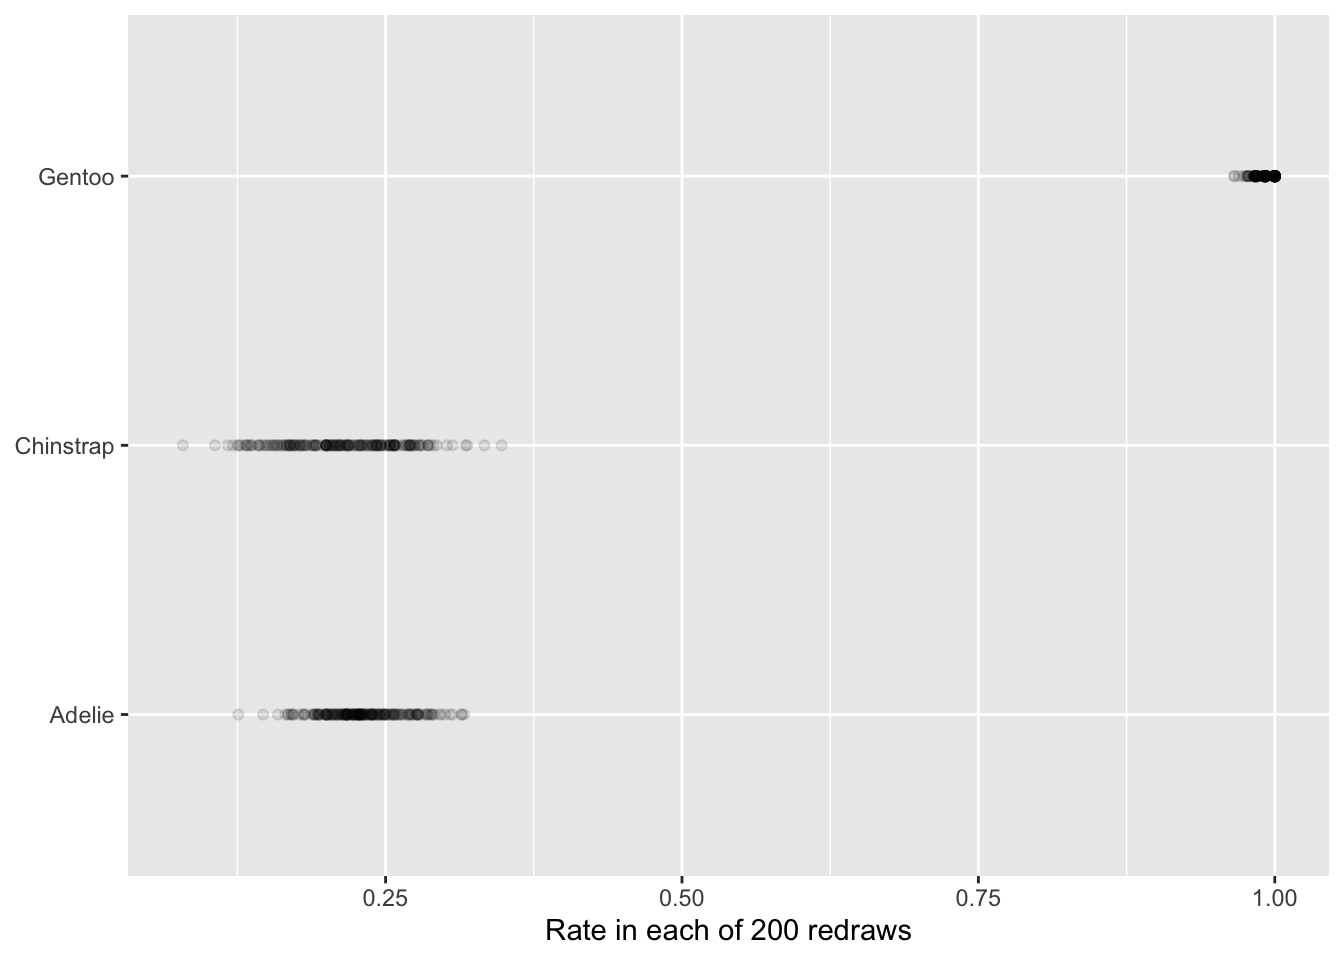
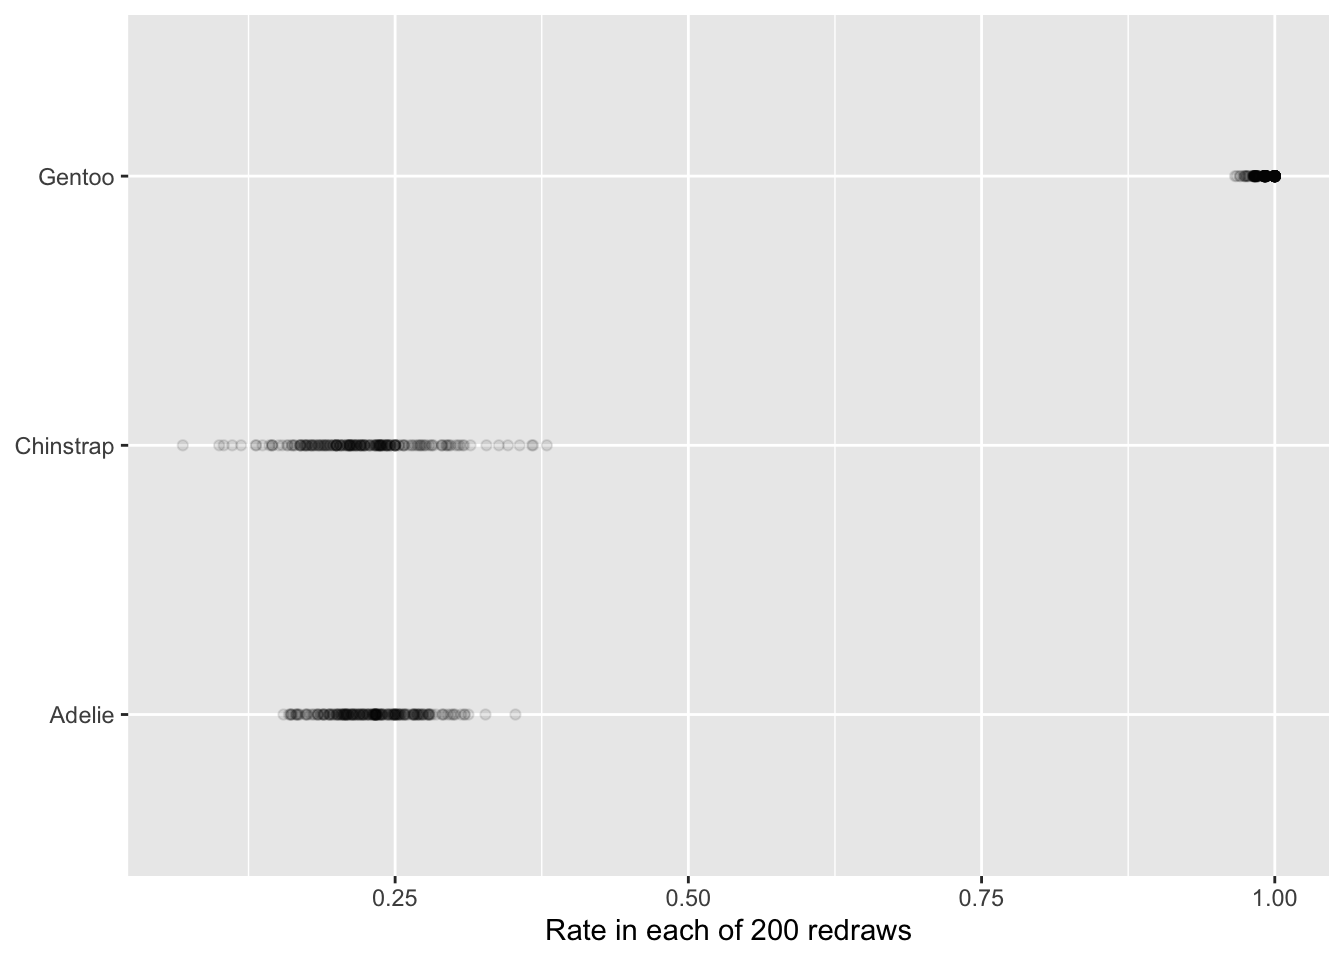
Add figure alt text to Module 11-12 practice pages; seed D2+ resampling
Add a one-sentence fig-alt to every plot on both practice pages. Add
set.seed(3901) to Module 12's D2+ so its redraws repeat, and regenerate
the two download files, dropping the solutions header line that said
D2+ differs on each run.

diff --git a/docs/module-12/practice.html b/docs/module-12/practice.html
@@ -279,7 +279,7 @@ pre > code.sourceCode > span > a:first-child::before { text-decoration: underlin
 <div class="cell-output-display">
 <div>
 <figure class="figure">
-<p><img src="practice_files/figure-html/unnamed-chunk-2-1.png" class="img-fluid figure-img" width="672"></p>
+<p><img src="practice_files/figure-html/unnamed-chunk-2-1.png" class="img-fluid figure-img" alt="Sideways stacked bar chart of the share of Adelie penguins on each island, with every bar running from 0 to 1, where Torgersen is 100% Adelie, Dream about 45% and Biscoe about 26%." width="672"></p>
 </figure>
 </div>
 </div>
@@ -300,10 +300,10 @@ pre > code.sourceCode > span > a:first-child::before { text-decoration: underlin
 <div class="cell quarto-layout-panel" data-layout-ncol="2">
 <div class="quarto-layout-row">
 <div class="quarto-layout-cell" style="flex-basis: 50.0%;justify-content: center;">
-<p><img src="practice_files/figure-html/unnamed-chunk-3-1.png" class="img-fluid" width="672"></p>
+<p><img src="practice_files/figure-html/unnamed-chunk-3-1.png" class="img-fluid" alt="Histogram of percent below poverty counted in Midwest counties, peaking at about 80 counties near 10% with a long right tail and one lone county near 48%." width="672"></p>
 </div>
 <div class="quarto-layout-cell" style="flex-basis: 50.0%;justify-content: center;">
-<p><img src="practice_files/figure-html/unnamed-chunk-3-2.png" class="img-fluid" width="672"></p>
+<p><img src="practice_files/figure-html/unnamed-chunk-3-2.png" class="img-fluid" alt="Histogram of the same poverty percentages weighted by population so the y axis counts people, where the peak moves to nearly 11 million people near 14%, a second bump appears near 6%, and the tail above about 22% almost disappears." width="672"></p>
 </div>
 </div>
 </div>
@@ -370,7 +370,7 @@ pre > code.sourceCode > span > a:first-child::before { text-decoration: underlin
 <div class="cell-output-display">
 <div>
 <figure class="figure">
-<p><img src="practice_files/figure-html/unnamed-chunk-5-1.png" class="img-fluid figure-img" width="672"></p>
+<p><img src="practice_files/figure-html/unnamed-chunk-5-1.png" class="img-fluid figure-img" alt="Point-range chart of the share of penguins heavier than 4000 g by species with n labels, where Adelie (about 0.23, n = 151) and Chinstrap (about 0.22, n = 68) have visible ranges, Chinstrap's the widest, while Gentoo (about 0.99, n = 123) has almost no range." width="672"></p>
 </figure>
 </div>
 </div>
@@ -423,22 +423,24 @@ pre > code.sourceCode > span > a:first-child::before { text-decoration: underlin
 <h3 class="anchored" data-anchor-id="d2-optional-see-the-noise-resampling">D2+ · Optional: see the noise (resampling)</h3>
 <p>Redraw the penguins with replacement 200 times and compute each species’ rate again. The width of each cloud is the uncertainty the se describes. (<code>map()</code> and <code>slice_sample()</code> are new; read and run, no need to write them.)</p>
 <div class="cell">
-<div class="code-copy-outer-scaffold"><div class="sourceCode cell-code" id="cb11"><pre class="sourceCode r code-with-copy"><code class="sourceCode r"><span id="cb11-1"><a href="#cb11-1" aria-hidden="true" tabindex="-1"></a>resamples <span class="ot">&lt;-</span> <span class="fu">map</span>(<span class="dv">1</span><span class="sc">:</span><span class="dv">200</span>, \(i) {</span>
-<span id="cb11-2"><a href="#cb11-2" aria-hidden="true" tabindex="-1"></a>  penguins <span class="sc">%&gt;%</span></span>
-<span id="cb11-3"><a href="#cb11-3" aria-hidden="true" tabindex="-1"></a>    <span class="fu">drop_na</span>(body_mass_g) <span class="sc">%&gt;%</span></span>
-<span id="cb11-4"><a href="#cb11-4" aria-hidden="true" tabindex="-1"></a>    <span class="fu">slice_sample</span>(<span class="at">prop =</span> <span class="dv">1</span>, <span class="at">replace =</span> <span class="cn">TRUE</span>) <span class="sc">%&gt;%</span></span>
-<span id="cb11-5"><a href="#cb11-5" aria-hidden="true" tabindex="-1"></a>    <span class="fu">group_by</span>(species) <span class="sc">%&gt;%</span></span>
-<span id="cb11-6"><a href="#cb11-6" aria-hidden="true" tabindex="-1"></a>    <span class="fu">summarize</span>(<span class="at">rate =</span> <span class="fu">mean</span>(body_mass_g <span class="sc">&gt;</span> <span class="dv">4000</span>))</span>
-<span id="cb11-7"><a href="#cb11-7" aria-hidden="true" tabindex="-1"></a>}) <span class="sc">%&gt;%</span></span>
-<span id="cb11-8"><a href="#cb11-8" aria-hidden="true" tabindex="-1"></a>  <span class="fu">bind_rows</span>(<span class="at">.id =</span> <span class="st">"draw"</span>)</span>
-<span id="cb11-9"><a href="#cb11-9" aria-hidden="true" tabindex="-1"></a></span>
-<span id="cb11-10"><a href="#cb11-10" aria-hidden="true" tabindex="-1"></a><span class="fu">ggplot</span>(resamples, <span class="fu">aes</span>(<span class="at">x =</span> rate, <span class="at">y =</span> species)) <span class="sc">+</span></span>
-<span id="cb11-11"><a href="#cb11-11" aria-hidden="true" tabindex="-1"></a>  <span class="fu">geom_point</span>(<span class="at">alpha =</span> <span class="fl">0.1</span>) <span class="sc">+</span></span>
-<span id="cb11-12"><a href="#cb11-12" aria-hidden="true" tabindex="-1"></a>  <span class="fu">labs</span>(<span class="at">x =</span> <span class="st">"Rate in each of 200 redraws"</span>, <span class="at">y =</span> <span class="cn">NULL</span>)</span></code></pre></div><button title="Copy to Clipboard" class="code-copy-button"><i class="bi"></i></button></div>
+<div class="code-copy-outer-scaffold"><div class="sourceCode cell-code" id="cb11"><pre class="sourceCode r code-with-copy"><code class="sourceCode r"><span id="cb11-1"><a href="#cb11-1" aria-hidden="true" tabindex="-1"></a><span class="co"># same redraws every time you run it</span></span>
+<span id="cb11-2"><a href="#cb11-2" aria-hidden="true" tabindex="-1"></a><span class="fu">set.seed</span>(<span class="dv">3901</span>)</span>
+<span id="cb11-3"><a href="#cb11-3" aria-hidden="true" tabindex="-1"></a>resamples <span class="ot">&lt;-</span> <span class="fu">map</span>(<span class="dv">1</span><span class="sc">:</span><span class="dv">200</span>, \(i) {</span>
+<span id="cb11-4"><a href="#cb11-4" aria-hidden="true" tabindex="-1"></a>  penguins <span class="sc">%&gt;%</span></span>
+<span id="cb11-5"><a href="#cb11-5" aria-hidden="true" tabindex="-1"></a>    <span class="fu">drop_na</span>(body_mass_g) <span class="sc">%&gt;%</span></span>
+<span id="cb11-6"><a href="#cb11-6" aria-hidden="true" tabindex="-1"></a>    <span class="fu">slice_sample</span>(<span class="at">prop =</span> <span class="dv">1</span>, <span class="at">replace =</span> <span class="cn">TRUE</span>) <span class="sc">%&gt;%</span></span>
+<span id="cb11-7"><a href="#cb11-7" aria-hidden="true" tabindex="-1"></a>    <span class="fu">group_by</span>(species) <span class="sc">%&gt;%</span></span>
+<span id="cb11-8"><a href="#cb11-8" aria-hidden="true" tabindex="-1"></a>    <span class="fu">summarize</span>(<span class="at">rate =</span> <span class="fu">mean</span>(body_mass_g <span class="sc">&gt;</span> <span class="dv">4000</span>))</span>
+<span id="cb11-9"><a href="#cb11-9" aria-hidden="true" tabindex="-1"></a>}) <span class="sc">%&gt;%</span></span>
+<span id="cb11-10"><a href="#cb11-10" aria-hidden="true" tabindex="-1"></a>  <span class="fu">bind_rows</span>(<span class="at">.id =</span> <span class="st">"draw"</span>)</span>
+<span id="cb11-11"><a href="#cb11-11" aria-hidden="true" tabindex="-1"></a></span>
+<span id="cb11-12"><a href="#cb11-12" aria-hidden="true" tabindex="-1"></a><span class="fu">ggplot</span>(resamples, <span class="fu">aes</span>(<span class="at">x =</span> rate, <span class="at">y =</span> species)) <span class="sc">+</span></span>
+<span id="cb11-13"><a href="#cb11-13" aria-hidden="true" tabindex="-1"></a>  <span class="fu">geom_point</span>(<span class="at">alpha =</span> <span class="fl">0.1</span>) <span class="sc">+</span></span>
+<span id="cb11-14"><a href="#cb11-14" aria-hidden="true" tabindex="-1"></a>  <span class="fu">labs</span>(<span class="at">x =</span> <span class="st">"Rate in each of 200 redraws"</span>, <span class="at">y =</span> <span class="cn">NULL</span>)</span></code></pre></div><button title="Copy to Clipboard" class="code-copy-button"><i class="bi"></i></button></div>
 <div class="cell-output-display">
 <div>
 <figure class="figure">
-<p><img src="practice_files/figure-html/unnamed-chunk-7-1.png" class="img-fluid figure-img" width="672"></p>
+<p><img src="practice_files/figure-html/unnamed-chunk-7-1.png" class="img-fluid figure-img" alt="Dot plot of each species' rate of penguins heavier than 4000 g across 200 redraws of the data, where the Chinstrap cloud is widest (about 0.07 to 0.38), the Adelie cloud is narrower (about 0.16 to 0.35), their centers sit near 0.22 and 0.23, and the Gentoo cloud is packed tightly close to 1." width="672"></p>
 </figure>
 </div>
 </div>
@@ -478,10 +480,10 @@ pre > code.sourceCode > span > a:first-child::before { text-decoration: underlin
 <div class="cell quarto-layout-panel" data-layout-ncol="2">
 <div class="quarto-layout-row">
 <div class="quarto-layout-cell" style="flex-basis: 50.0%;justify-content: center;">
-<p><img src="practice_files/figure-html/unnamed-chunk-9-1.png" class="img-fluid" width="672"></p>
+<p><img src="practice_files/figure-html/unnamed-chunk-9-1.png" class="img-fluid" alt="Bar chart of penguin counts per island zoomed to an x axis from 40 to 175, where all three bars remain but are cut off at 40, so Biscoe (168) looks about 10.7 times as long as Torgersen (52) although the counts differ only 3.2 times." width="672"></p>
 </div>
 <div class="quarto-layout-cell" style="flex-basis: 50.0%;justify-content: center;">
-<p><img src="practice_files/figure-html/unnamed-chunk-9-2.png" class="img-fluid" width="672"></p>
+<p><img src="practice_files/figure-html/unnamed-chunk-9-2.png" class="img-fluid" alt="Empty bar chart of penguin counts per island with x-axis limits of 40 to 175, where no bars appear at all because every bar starts at 0, outside the limits." width="672"></p>
 </div>
 </div>
 </div>
@@ -511,10 +513,10 @@ pre > code.sourceCode > span > a:first-child::before { text-decoration: underlin
 <div class="cell quarto-layout-panel" data-layout-ncol="2">
 <div class="quarto-layout-row">
 <div class="quarto-layout-cell" style="flex-basis: 50.0%;justify-content: center;">
-<p><img src="practice_files/figure-html/unnamed-chunk-11-1.png" class="img-fluid" width="672"></p>
+<p><img src="practice_files/figure-html/unnamed-chunk-11-1.png" class="img-fluid" alt="Line chart of unemployed per person from 2000 to 2007, where a narrow axis makes a steep rise from about 0.02 to a peak near 0.032 in 2003, and a fall to about 0.024 by 2007, look dramatic." width="672"></p>
 </div>
 <div class="quarto-layout-cell" style="flex-basis: 50.0%;justify-content: center;">
-<p><img src="practice_files/figure-html/unnamed-chunk-11-2.png" class="img-fluid" width="672"></p>
+<p><img src="practice_files/figure-html/unnamed-chunk-11-2.png" class="img-fluid" alt="Line chart of unemployed per person from 1967 to 2015, where peaks near 0.052 around 1982 and 0.05 around 2010 make the 2003 bump of about 0.032 look modest." width="672"></p>
 </div>
 </div>
 </div>
@@ -583,7 +585,7 @@ pre > code.sourceCode > span > a:first-child::before { text-decoration: underlin
 <div class="cell-output-display">
 <div>
 <figure class="figure">
-<p><img src="practice_files/figure-html/unnamed-chunk-13-1.png" class="img-fluid figure-img" width="672"></p>
+<p><img src="practice_files/figure-html/unnamed-chunk-13-1.png" class="img-fluid figure-img" alt="Sideways bar chart of each island's share of all Adelie penguins, where Dream is largest at about 37%, Torgersen is next at 34% and Biscoe is smallest at 29%." width="672"></p>
 </figure>
 </div>
 </div>
@@ -602,10 +604,10 @@ pre > code.sourceCode > span > a:first-child::before { text-decoration: underlin
 <div class="cell quarto-layout-panel" data-layout-ncol="2">
 <div class="quarto-layout-row">
 <div class="quarto-layout-cell" style="flex-basis: 50.0%;justify-content: center;">
-<p><img src="practice_files/figure-html/unnamed-chunk-14-1.png" class="img-fluid" width="672"></p>
+<p><img src="practice_files/figure-html/unnamed-chunk-14-1.png" class="img-fluid" alt="Single stacked bar of each species' share of all penguins on a scale from 0 to 1, with Adelie about 44%, Gentoo 36% and Chinstrap 20%, so the shares can be compared as lengths." width="672"></p>
 </div>
 <div class="quarto-layout-cell" style="flex-basis: 50.0%;justify-content: center;">
-<p><img src="practice_files/figure-html/unnamed-chunk-14-2.png" class="img-fluid" width="672"></p>
+<p><img src="practice_files/figure-html/unnamed-chunk-14-2.png" class="img-fluid" alt="Pie chart of the same species shares, with Adelie about 44%, Gentoo 36% and Chinstrap 20%, so the shares must be compared as angles and areas." width="672"></p>
 </div>
 </div>
 </div>

diff --git a/docs/module-11/practice.html b/docs/module-11/practice.html
@@ -319,7 +319,7 @@ pre > code.sourceCode > span > a:first-child::before { text-decoration: underlin
 <div class="cell-output-display">
 <div>
 <figure class="figure">
-<p><img src="practice_files/figure-html/d1-run-1.png" class="img-fluid figure-img" width="672"></p>
+<p><img src="practice_files/figure-html/d1-run-1.png" class="img-fluid figure-img" alt="Scatter plot of bill depth against bill length with all penguins in one color, where the whole cloud slopes slightly downward, so longer bills look shallower." width="672"></p>
 </figure>
 </div>
 </div>
@@ -333,7 +333,7 @@ pre > code.sourceCode > span > a:first-child::before { text-decoration: underlin
 <div class="cell-output-display">
 <div>
 <figure class="figure">
-<p><img src="practice_files/figure-html/d1-run-2.png" class="img-fluid figure-img" width="672"></p>
+<p><img src="practice_files/figure-html/d1-run-2.png" class="img-fluid figure-img" alt="Scatter plot of bill depth against bill length with species shown by color and shape, where Adelie, Chinstrap and Gentoo form three separate clusters and the points slope upward within each species." width="672"></p>
 </figure>
 </div>
 </div>
@@ -398,7 +398,7 @@ pre > code.sourceCode > span > a:first-child::before { text-decoration: underlin
 <div class="cell-output-display">
 <div>
 <figure class="figure">
-<p><img src="practice_files/figure-html/d1-modify-1.png" class="img-fluid figure-img" width="672"></p>
+<p><img src="practice_files/figure-html/d1-modify-1.png" class="img-fluid figure-img" alt="Scatter plot of bill depth against bill length with semi-transparent points and two legends, color for species and shape for island, where all Gentoo are on Biscoe, all Chinstrap are on Dream and Adelie appear on all three islands." width="672"></p>
 </figure>
 </div>
 </div>
@@ -437,7 +437,7 @@ pre > code.sourceCode > span > a:first-child::before { text-decoration: underlin
 <div class="cell-output-display">
 <div>
 <figure class="figure">
-<p><img src="practice_files/figure-html/d1-make-1.png" class="img-fluid figure-img" width="672"></p>
+<p><img src="practice_files/figure-html/d1-make-1.png" class="img-fluid figure-img" alt="Scatter plot of body mass against flipper length colored by sex, where mass rises with flipper length, males tend to sit above and to the right of females, and a few gray points mark penguins with no recorded sex." width="672"></p>
 </figure>
 </div>
 </div>
@@ -451,7 +451,7 @@ pre > code.sourceCode > span > a:first-child::before { text-decoration: underlin
 <div class="cell-output-display">
 <div>
 <figure class="figure">
-<p><img src="practice_files/figure-html/d1-make-2.png" class="img-fluid figure-img" width="672"></p>
+<p><img src="practice_files/figure-html/d1-make-2.png" class="img-fluid figure-img" alt="Scatter plot of bill depth against body mass with semi-transparent points colored by island, where a heavy, shallow-billed group of Biscoe penguins sits at lower right, apart from a lighter, deeper-billed mix of all three islands at upper left." width="672"></p>
 </figure>
 </div>
 </div>
@@ -516,7 +516,7 @@ pre > code.sourceCode > span > a:first-child::before { text-decoration: underlin
 <div class="cell-output-display">
 <div>
 <figure class="figure">
-<p><img src="practice_files/figure-html/d2-run-1.png" class="img-fluid figure-img" width="672"></p>
+<p><img src="practice_files/figure-html/d2-run-1.png" class="img-fluid figure-img" alt="Column chart of penguin counts per island, with Biscoe tallest at 168, Dream at 124 and Torgersen shortest at 52." width="672"></p>
 </figure>
 </div>
 </div>
@@ -577,7 +577,7 @@ pre > code.sourceCode > span > a:first-child::before { text-decoration: underlin
 <div class="cell-output-display">
 <div>
 <figure class="figure">
-<p><img src="practice_files/figure-html/d2-modify-1.png" class="img-fluid figure-img" width="672"></p>
+<p><img src="practice_files/figure-html/d2-modify-1.png" class="img-fluid figure-img" alt="Column chart of penguins measured per year, rising slightly from 110 in 2007 to 114 in 2008 and 120 in 2009." width="672"></p>
 </figure>
 </div>
 </div>
@@ -611,7 +611,7 @@ pre > code.sourceCode > span > a:first-child::before { text-decoration: underlin
 <div class="cell-output-display">
 <div>
 <figure class="figure">
-<p><img src="practice_files/figure-html/d2-make-1.png" class="img-fluid figure-img" width="672"></p>
+<p><img src="practice_files/figure-html/d2-make-1.png" class="img-fluid figure-img" alt="Column chart of penguin counts by sex, with nearly equal female (165) and male (168) columns and a short NA column (11) for penguins whose sex was not recorded." width="672"></p>
 </figure>
 </div>
 </div>
@@ -623,7 +623,7 @@ pre > code.sourceCode > span > a:first-child::before { text-decoration: underlin
 <div class="cell-output-display">
 <div>
 <figure class="figure">
-<p><img src="practice_files/figure-html/d2-make-2.png" class="img-fluid figure-img" width="672"></p>
+<p><img src="practice_files/figure-html/d2-make-2.png" class="img-fluid figure-img" alt="Column chart of mean body mass per species, with Gentoo tallest at about 5,080 g and Adelie and Chinstrap nearly equal at about 3,700 g." width="672"></p>
 </figure>
 </div>
 </div>
@@ -696,7 +696,7 @@ pre > code.sourceCode > span > a:first-child::before { text-decoration: underlin
 <div class="cell-output-display">
 <div>
 <figure class="figure">
-<p><img src="practice_files/figure-html/d3-run-1.png" class="img-fluid figure-img" width="672"></p>
+<p><img src="practice_files/figure-html/d3-run-1.png" class="img-fluid figure-img" alt="Line chart of mean body mass by year drawn as a single zigzag line, which jumps between about 3,700 g and 5,100 g at each of 2007, 2008 and 2009 because the three species are not separated." width="672"></p>
 </figure>
 </div>
 </div>
@@ -714,7 +714,7 @@ pre > code.sourceCode > span > a:first-child::before { text-decoration: underlin
 <div class="cell-output-display">
 <div>
 <figure class="figure">
-<p><img src="practice_files/figure-html/d3-investigate-1.png" class="img-fluid figure-img" width="672"></p>
+<p><img src="practice_files/figure-html/d3-investigate-1.png" class="img-fluid figure-img" alt="Line chart of place against step drawn with geom_line, where the line runs left to right through (1, 10), (2, 15) and (3, 30) in order of x." width="672"></p>
 </figure>
 </div>
 </div>
@@ -722,7 +722,7 @@ pre > code.sourceCode > span > a:first-child::before { text-decoration: underlin
 <div class="cell-output-display">
 <div>
 <figure class="figure">
-<p><img src="practice_files/figure-html/d3-investigate-2.png" class="img-fluid figure-img" width="672"></p>
+<p><img src="practice_files/figure-html/d3-investigate-2.png" class="img-fluid figure-img" alt="Line chart of the same points drawn with geom_path, where the line follows the row order from (1, 10) to (3, 30) and then doubles back to (2, 15)." width="672"></p>
 </figure>
 </div>
 </div>
@@ -776,7 +776,7 @@ pre > code.sourceCode > span > a:first-child::before { text-decoration: underlin
 <div class="cell-output-display">
 <div>
 <figure class="figure">
-<p><img src="practice_files/figure-html/d3-modify-1.png" class="img-fluid figure-img" width="672"></p>
+<p><img src="practice_files/figure-html/d3-modify-1.png" class="img-fluid figure-img" alt="Line chart of mean body mass by year with one colored line per species, where all three stay nearly flat, Gentoo far above at about 5,000 to 5,150 g and Adelie and Chinstrap close together near 3,700 g." width="672"></p>
 </figure>
 </div>
 </div>
@@ -814,7 +814,7 @@ pre > code.sourceCode > span > a:first-child::before { text-decoration: underlin
 <div class="cell-output-display">
 <div>
 <figure class="figure">
-<p><img src="practice_files/figure-html/d3-make-1.png" class="img-fluid figure-img" width="672"></p>
+<p><img src="practice_files/figure-html/d3-make-1.png" class="img-fluid figure-img" alt="Line chart of mean flipper length by year with one colored line per island, where Biscoe stays highest at about 208 to 211 mm, Dream and Torgersen stay lower at about 189 to 195 mm, and all three end slightly above where they start." width="672"></p>
 </figure>
 </div>
 </div>
@@ -824,7 +824,7 @@ pre > code.sourceCode > span > a:first-child::before { text-decoration: underlin
 <div class="cell-output-display">
 <div>
 <figure class="figure">
-<p><img src="practice_files/figure-html/d3-make-2.png" class="img-fluid figure-img" width="672"></p>
+<p><img src="practice_files/figure-html/d3-make-2.png" class="img-fluid figure-img" alt="Line chart of penguins measured per year with one colored line per species, where Adelie holds steady at about 50, Gentoo rises from 34 to 46 and then 44, and Chinstrap stays lowest, dipping from 26 to 18 and back to 24." width="672"></p>
 </figure>
 </div>
 </div>
@@ -921,7 +921,7 @@ Caused by error:
 <div class="cell-output-display">
 <div>
 <figure class="figure">
-<p><img src="practice_files/figure-html/d4-investigate-1.png" class="img-fluid figure-img" width="672"></p>
+<p><img src="practice_files/figure-html/d4-investigate-1.png" class="img-fluid figure-img" alt="Scatter plot of body mass against flipper length colored by species with a large X at each species mean, where the X marks take their species colors because color is mapped globally, and the Gentoo X sits far above and to the right of the nearby Adelie and Chinstrap X marks." width="672"></p>
 </figure>
 </div>
 </div>
@@ -988,7 +988,7 @@ Caused by error:
 <div class="cell-output-display">
 <div>
 <figure class="figure">
-<p><img src="practice_files/figure-html/d4-modify-1.png" class="img-fluid figure-img" width="672"></p>
+<p><img src="practice_files/figure-html/d4-modify-1.png" class="img-fluid figure-img" alt="Scatter plot of body mass against flipper length with semi-transparent points colored by species and a black X labeled with the species name at each mean, where the Gentoo center (about 217 mm, 5,080 g) sits far from the neighboring Adelie and Chinstrap centers (about 190 and 196 mm, both near 3,700 g)." width="672"></p>
 </figure>
 </div>
 </div>
@@ -1037,7 +1037,7 @@ Caused by error:
 <div class="cell-output-display">
 <div>
 <figure class="figure">
-<p><img src="practice_files/figure-html/d4-make-1.png" class="img-fluid figure-img" width="672"></p>
+<p><img src="practice_files/figure-html/d4-make-1.png" class="img-fluid figure-img" alt="Scatter plot of bill depth against bill length with semi-transparent points colored by island and a black X labeled with the island name at each mean, where the Biscoe center sits lowest at about 15.9 mm of depth while Dream and Torgersen sit near 18.3 mm, with Torgersen at the shorter bill length." width="672"></p>
 </figure>
 </div>
 </div>
@@ -1056,7 +1056,7 @@ Caused by error:
 <div class="cell-output-display">
 <div>
 <figure class="figure">
-<p><img src="practice_files/figure-html/d4-make-2.png" class="img-fluid figure-img" width="672"></p>
+<p><img src="practice_files/figure-html/d4-make-2.png" class="img-fluid figure-img" alt="Scatter plot of body mass against flipper length with semi-transparent points colored by sex, penguins with no recorded sex removed, and a large black X at each mean, where the male center (about 205 mm, 4,550 g) sits above and to the right of the female center (about 197 mm, 3,860 g)." width="672"></p>
 </figure>
 </div>
 </div>
